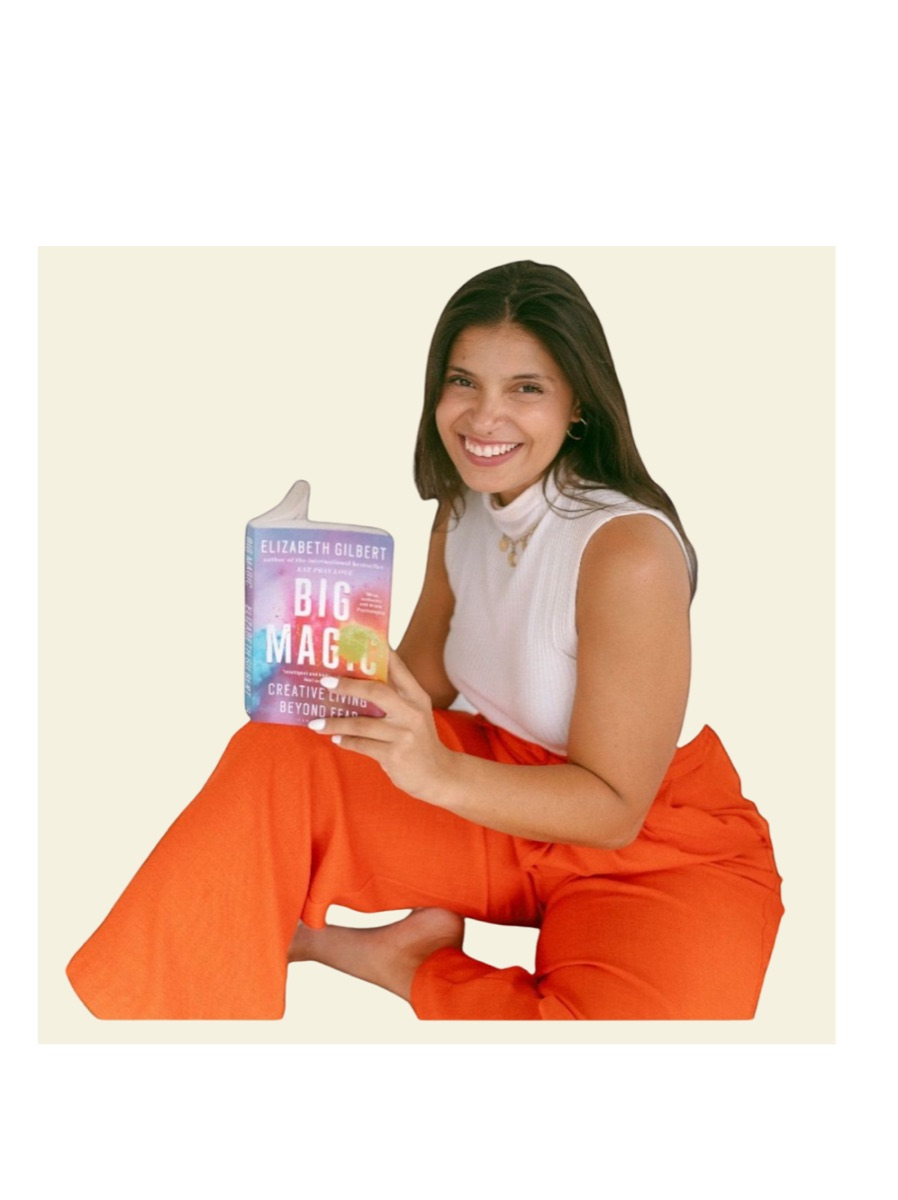
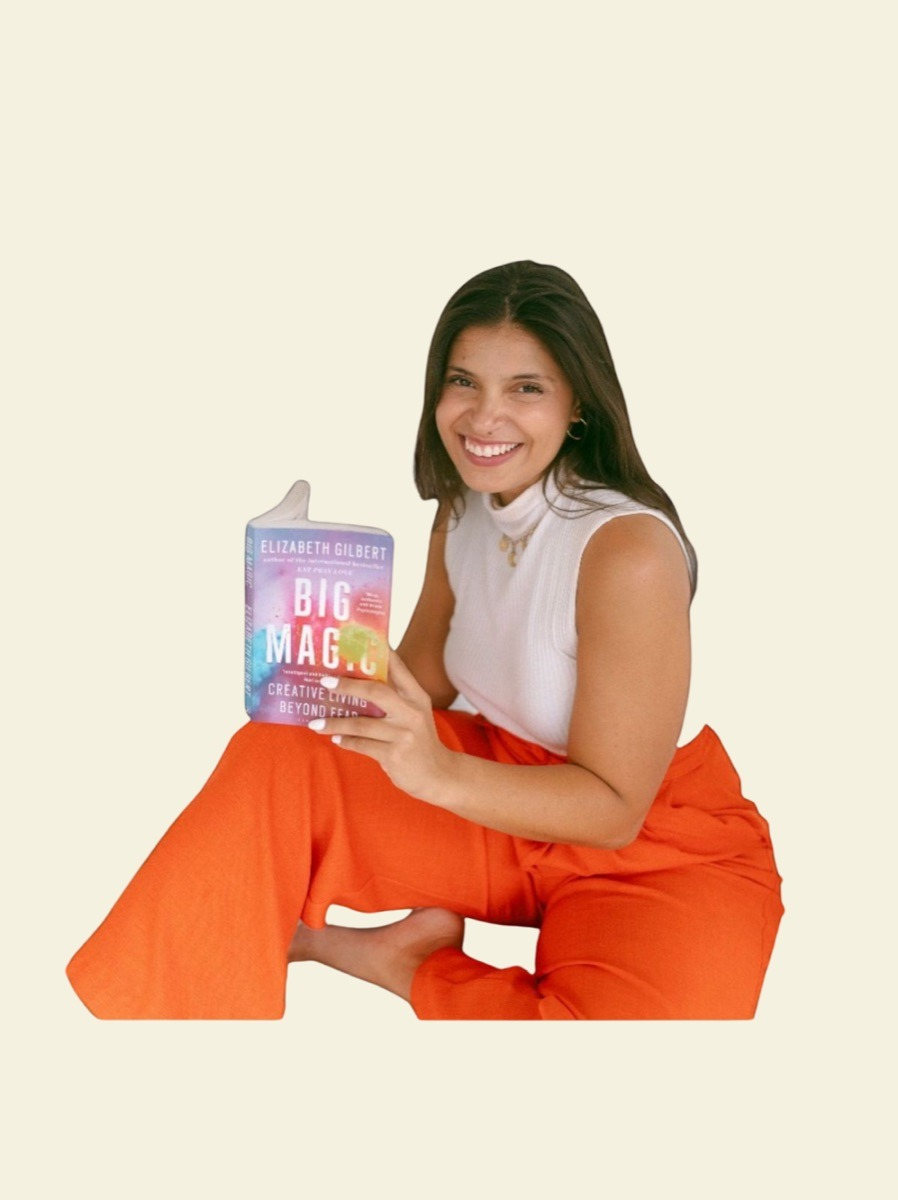
auto: codigo, sessoes - 2026-08-05 16:33

diff --git a/sessoes/sessao-2026-08-05.md b/sessoes/sessao-2026-08-05.md
@@ -43,3 +43,9 @@
  M codigo/site/home/index.html
 ```
 
+
+## 16:33
+```
+ M codigo/site/home/img/equipe/gabriela.jpg
+```
+
